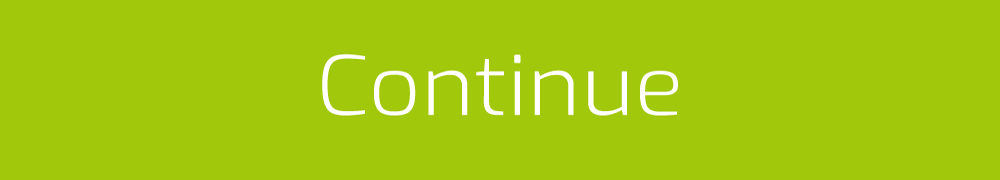
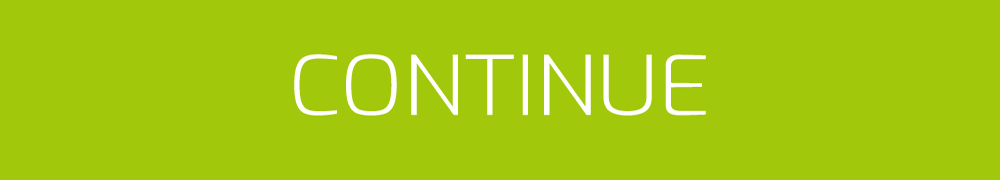
Updated pause buttons

Changed region(s): [[0.279, 0.2778, 0.713, 0.6667]]

diff --git a/buttons.jsx b/buttons.jsx
@@ -30,7 +30,7 @@ function process(hex, text, file) {
     exportFile(file, 500, 90);
 }
 
-process("#e8193b", "Back to Menu", "pause-back");
-process("#f69100", "Retry", "pause-retry");
-process("#a2c80c", "Continue", "pause-continue");
-process("#0078f2", "Watch Replay", "pause-replay");
+process("#e8193b", "BACK TO MENU", "pause-back");
+process("#f69100", "RETRY", "pause-retry");
+process("#a2c80c", "CONTINUE", "pause-continue");
+process("#0078f2", "WATCH REPLAY", "pause-replay");
